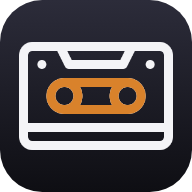
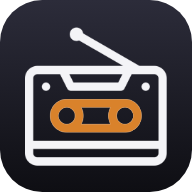
Marca: casete con antena de radio (30°, largo 200) y regeneración de todos los íconos

diff --git a/scripts/renderizar-icono.py b/scripts/renderizar-icono.py
@@ -13,19 +13,20 @@ RAIZ = Path(__file__).resolve().parent.parent
 FUENTE = RAIZ / "branding" / "casete.png"
 BLANCO, NARANJA = "#f4f4f7", "#d9822b"
 FONDO_OSCURO = "linear-gradient(#2c2c3a, #0e0e13)"
-# la ventana de la cinta dentro del PNG de 512 px: x 80..430, y 185..325 (no toca ninguna otra línea del dibujo)
-VENTANA = "inset(36.1% 16% 36.5% 15.6%)"
+# la ventana de la cinta dentro del PNG de 512 px (el casete va al 78 %, con la antena arriba): x 118..391, y 256..366
+# (no toca ninguna otra línea del dibujo)
+VENTANA = "inset(50.1% 23.6% 28.6% 23.1%)"
 
 # (archivo, lado en px, fondo o None, esquinas redondeadas en %, tamaño del casete respecto del lado, ventana en naranja, color base)
 DESTINOS = [
     (RAIZ / "relay/web/casete-color.png", 512, None, 0, 1.0, True, BLANCO),
-    (RAIZ / "relay/web/favicon-32.png", 32, FONDO_OSCURO, 22, 0.8, True, BLANCO),
-    (RAIZ / "relay/web/apple-touch-icon.png", 180, FONDO_OSCURO, 0, 0.74, True, BLANCO),
-    (RAIZ / "applet/cassette-fm@cassette-fm/icon.png", 256, FONDO_OSCURO, 22, 0.8, True, BLANCO),
+    (RAIZ / "relay/web/favicon-32.png", 32, FONDO_OSCURO, 22, 0.95, True, BLANCO),
+    (RAIZ / "relay/web/apple-touch-icon.png", 180, FONDO_OSCURO, 0, 0.88, True, BLANCO),
+    (RAIZ / "applet/cassette-fm@cassette-fm/icon.png", 256, FONDO_OSCURO, 22, 0.95, True, BLANCO),
     # la app instalada en Android: "any" (esquinas redondeadas) y "maskable" (a sangre completa, con el casete dentro de la zona segura)
-    (RAIZ / "relay/web/icono-192.png", 192, FONDO_OSCURO, 22, 0.8, True, BLANCO),
-    (RAIZ / "relay/web/icono-512.png", 512, FONDO_OSCURO, 22, 0.8, True, BLANCO),
-    (RAIZ / "relay/web/icono-maskable-512.png", 512, FONDO_OSCURO, 0, 0.56, True, BLANCO),
+    (RAIZ / "relay/web/icono-192.png", 192, FONDO_OSCURO, 22, 0.95, True, BLANCO),
+    (RAIZ / "relay/web/icono-512.png", 512, FONDO_OSCURO, 22, 0.95, True, BLANCO),
+    (RAIZ / "relay/web/icono-maskable-512.png", 512, FONDO_OSCURO, 0, 0.66, True, BLANCO),
     (RAIZ / "applet/cassette-fm@cassette-fm/casete-panel.png", 128, None, 0, 1.0, False, "#ffffff"),
 ]
 

diff --git a/branding/README.md b/branding/README.md
@@ -1,6 +1,7 @@
 # Marca de cassette-fm
 
-`casete.png` es el ícono del casete (512×512, contorno negro sobre transparente), de Flaticon:
+`casete.png` es el ícono del casete con antena de radio (512×512, contorno negro sobre transparente): el casete de Flaticon, achicado al 78 %,
+más una antena a 30° con largo 200 y bolita en la punta, dibujada a mano. `casete-original.png` es el casete sin antena, tal como viene de Flaticon:
 <https://cdn-icons-png.flaticon.com/512/2876/2876917.png>. La licencia gratuita de Flaticon pide dar crédito al autor; si el
 proyecto se publica, hay que agregarlo acá.
 
